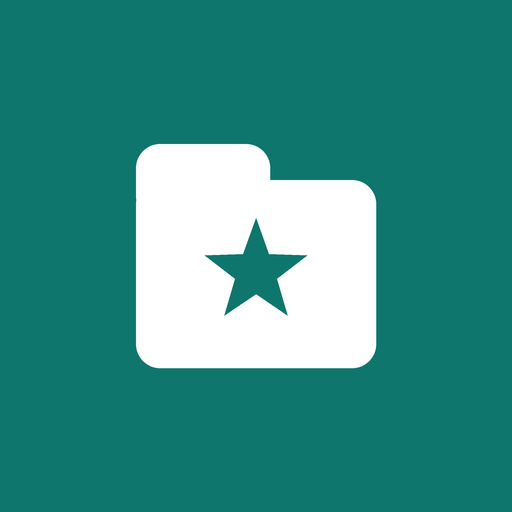
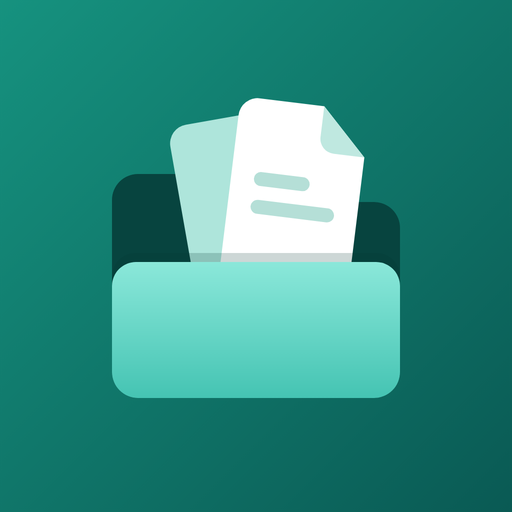
Publish viewer from 151c477

Changed region(s): [[0.2188, 0.1875, 0.7812, 0.7812], [0.875, 0.875, 1.0, 1.0], [0.0, 0.0, 0.125, 0.125]]

diff --git a/app.js b/app.js
@@ -323,7 +323,7 @@ function signInScreen() {
   return `
     <main>
       <div class="empty">
-        <div class="tile">📁</div>
+        <img class="logo" src="icon.svg" alt="" width="84" height="84" />
         <h2>Documents shared with you</h2>
         <p>Sign in with the Google account the group was shared with. Your
           documents are then saved on this phone, so they open without a

diff --git a/sw.js b/sw.js
@@ -1,7 +1,7 @@
 // Keeps the app itself available offline. Documents are stored separately,
 // by app.js, in their own cache that survives app updates.
 
-const VERSION = '178456e84e3a';
+const VERSION = 'cef73c4315c5';
 const SHELL = `gdoc-shell-${VERSION}`;
 
 self.addEventListener('install', (event) => {

diff --git a/styles.css b/styles.css
@@ -247,6 +247,11 @@ main {
   font-size: 36px;
 }
 
+.empty .logo {
+  display: block;
+  margin: 0 auto 20px;
+}
+
 .empty h2 {
   margin: 0 0 8px;
   font-size: 1.35rem;
